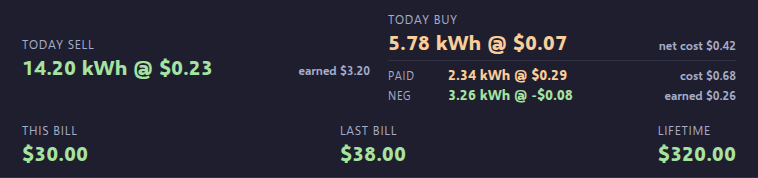
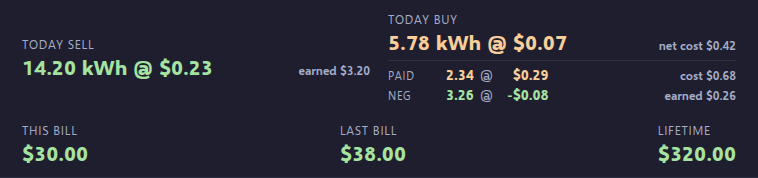
patch: Cost chart Paid/Neg rows line up in columns; minus sits before the $ on averages and amounts
Claude-Session: https://claude.ai/code/session_01MnL2HCGqmaAnrDcTVFUrHC

Changed region(s): [[0.5765, 0.5056, 0.7586, 0.5899], [0.5765, 0.3933, 0.7586, 0.4775]]

diff --git a/custom_components/battman/www/battman-cost-chart.js b/custom_components/battman/www/battman-cost-chart.js
@@ -66,10 +66,12 @@ class BattmanCostChartCard extends BattmanCardBase {
     .stat .hl { display: flex; justify-content: space-between; align-items: baseline; gap: 10px; }
     .stat .sub { font-size: 12px; font-weight: 600; color: var(--secondary-text-color); font-variant-numeric: tabular-nums; white-space: nowrap; }
     .stat .bd { margin-top: 4px; padding-top: 5px; border-top: 1px solid var(--divider-color); display: flex; flex-direction: column; gap: 3px; }
-    .stat .r2 { display: flex; gap: 10px; align-items: baseline; justify-content: space-between; font-size: 14px; font-weight: 700;
+    .stat .r2 { display: grid; grid-template-columns: 38px 5.2ch 1.6ch 6.2ch 1fr; column-gap: 6px; align-items: baseline; font-size: 14px; font-weight: 700;
       font-variant-numeric: tabular-nums; white-space: nowrap; }
-    .stat .r2 .t { font-size: 11px; font-weight: 400; color: var(--secondary-text-color); text-transform: uppercase; letter-spacing: 0.06em; min-width: 50px; }
-    .stat .r2 .m { flex: 1; }
+    .stat .r2 .t { font-size: 11px; font-weight: 400; color: var(--secondary-text-color); text-transform: uppercase; letter-spacing: 0.06em; }
+    .stat .r2 .n { text-align: right; }
+    .stat .r2 .at { font-weight: 400; text-align: center; color: var(--secondary-text-color); }
+    .stat .r2 .sub { text-align: right; }
     .statbreak { display: none; }
     @container (max-width: 960px) { .statbreak { display: block; flex-basis: 100%; height: 0; } }
     .chartWrap { flex: 1; position: relative; padding: 10px 10px 6px; min-height: 0; }
@@ -136,18 +138,21 @@ class BattmanCostChartCard extends BattmanCardBase {
       const lastBill = num(sell.attributes.bill_last) - num(buy.attributes.bill_last) - num(feeS && feeS.attributes.bill_last);
       const withAmber = num(P.attributes.energyIncome) + num(sell.state) - num(buy.state) - num(feeS && feeS.state);
       const sgn = (v) => v >= 0 ? COL.green : COL.red;
-      const kwhAt = (kwh, cost) => `${kwh.toFixed(2)} kWh @ ${money(kwh > 0 ? cost / kwh : 0)}`;
       const det = (k, col, v, amt, bd) => `<div class="stat det"><span class="k">${k}</span><div class="hl"><span class="v" style="color:${col}">${v}</span>`
         + `<span class="sub">${amt}</span></div>${bd || ""}</div>`;
-      const row = (t, col, v, amt) => `<div class="r2"><span class="t">${t}</span><span class="m" style="color:${col}">${v}</span><span class="sub">${amt}</span></div>`;
+      // columns: label | kWh | @ | price | amount, right-aligned so the decimals line up whatever the sign
+      const row = (t, col, kwh, cost, amt) => `<div class="r2" style="color:${col}"><span class="t">${t}</span><span class="n">${kwh.toFixed(2)}</span>`
+        + `<span class="at">@</span><span class="n">${money(kwh > 0 ? cost / kwh : 0)}</span><span class="sub">${amt}</span></div>`;
       // the paid / negative split only on a day that had negative buy prices
       const hasNeg = split && split.neg.kwh >= 0.005;
       const bd = hasNeg ? '<div class="bd">'
-        + row("Paid", COL.amber, kwhAt(split.paid.kwh, split.paid.cost), "cost " + money(split.paid.cost))
-        + row("Neg", COL.green, kwhAt(split.neg.kwh, split.neg.cost), "earned " + money(-split.neg.cost)) + "</div>" : "";
+        + row("Paid", COL.amber, split.paid.kwh, split.paid.cost, "cost " + money(split.paid.cost))
+        + row("Neg", COL.green, split.neg.kwh, split.neg.cost, "earned " + money(-split.neg.cost)) + "</div>" : "";
       const buyAmt = buyDay >= 0 ? "net cost " + money(buyDay) : "net earned " + money(-buyDay);
-      const html = det("Today Sell", COL.green, `${expKwh.toFixed(2)} kWh @ $${sellAvg.toFixed(2)}`, "earned " + money(sellDay))
-        + det("Today Buy", COL.amber, `${impKwh.toFixed(2)} kWh @ $${buyAvg.toFixed(2)}`, buyAmt, bd)
+      const sellAmt = sellDay >= 0 ? "earned " + money(sellDay) : "net cost " + money(-sellDay);
+      // money() puts the minus before the $ (-$0.07), where "$" + toFixed would print $-0.07
+      const html = det("Today Sell", COL.green, `${expKwh.toFixed(2)} kWh @ ${money(sellAvg)}`, sellAmt)
+        + det("Today Buy", COL.amber, `${impKwh.toFixed(2)} kWh @ ${money(buyAvg)}`, buyAmt, bd)
         + '<div class="statbreak"></div>'
         + [{ k: "This Bill", v: money(thisBill), c: sgn(thisBill) }, { k: "Last Bill", v: money(lastBill), c: sgn(lastBill) }, { k: "Lifetime", v: money(withAmber), c: sgn(withAmber) }]
           .map((it) => `<div class="stat"><span class="k">${it.k}</span><span class="v" style="color:${it.c}">${it.v}</span></div>`).join("");
